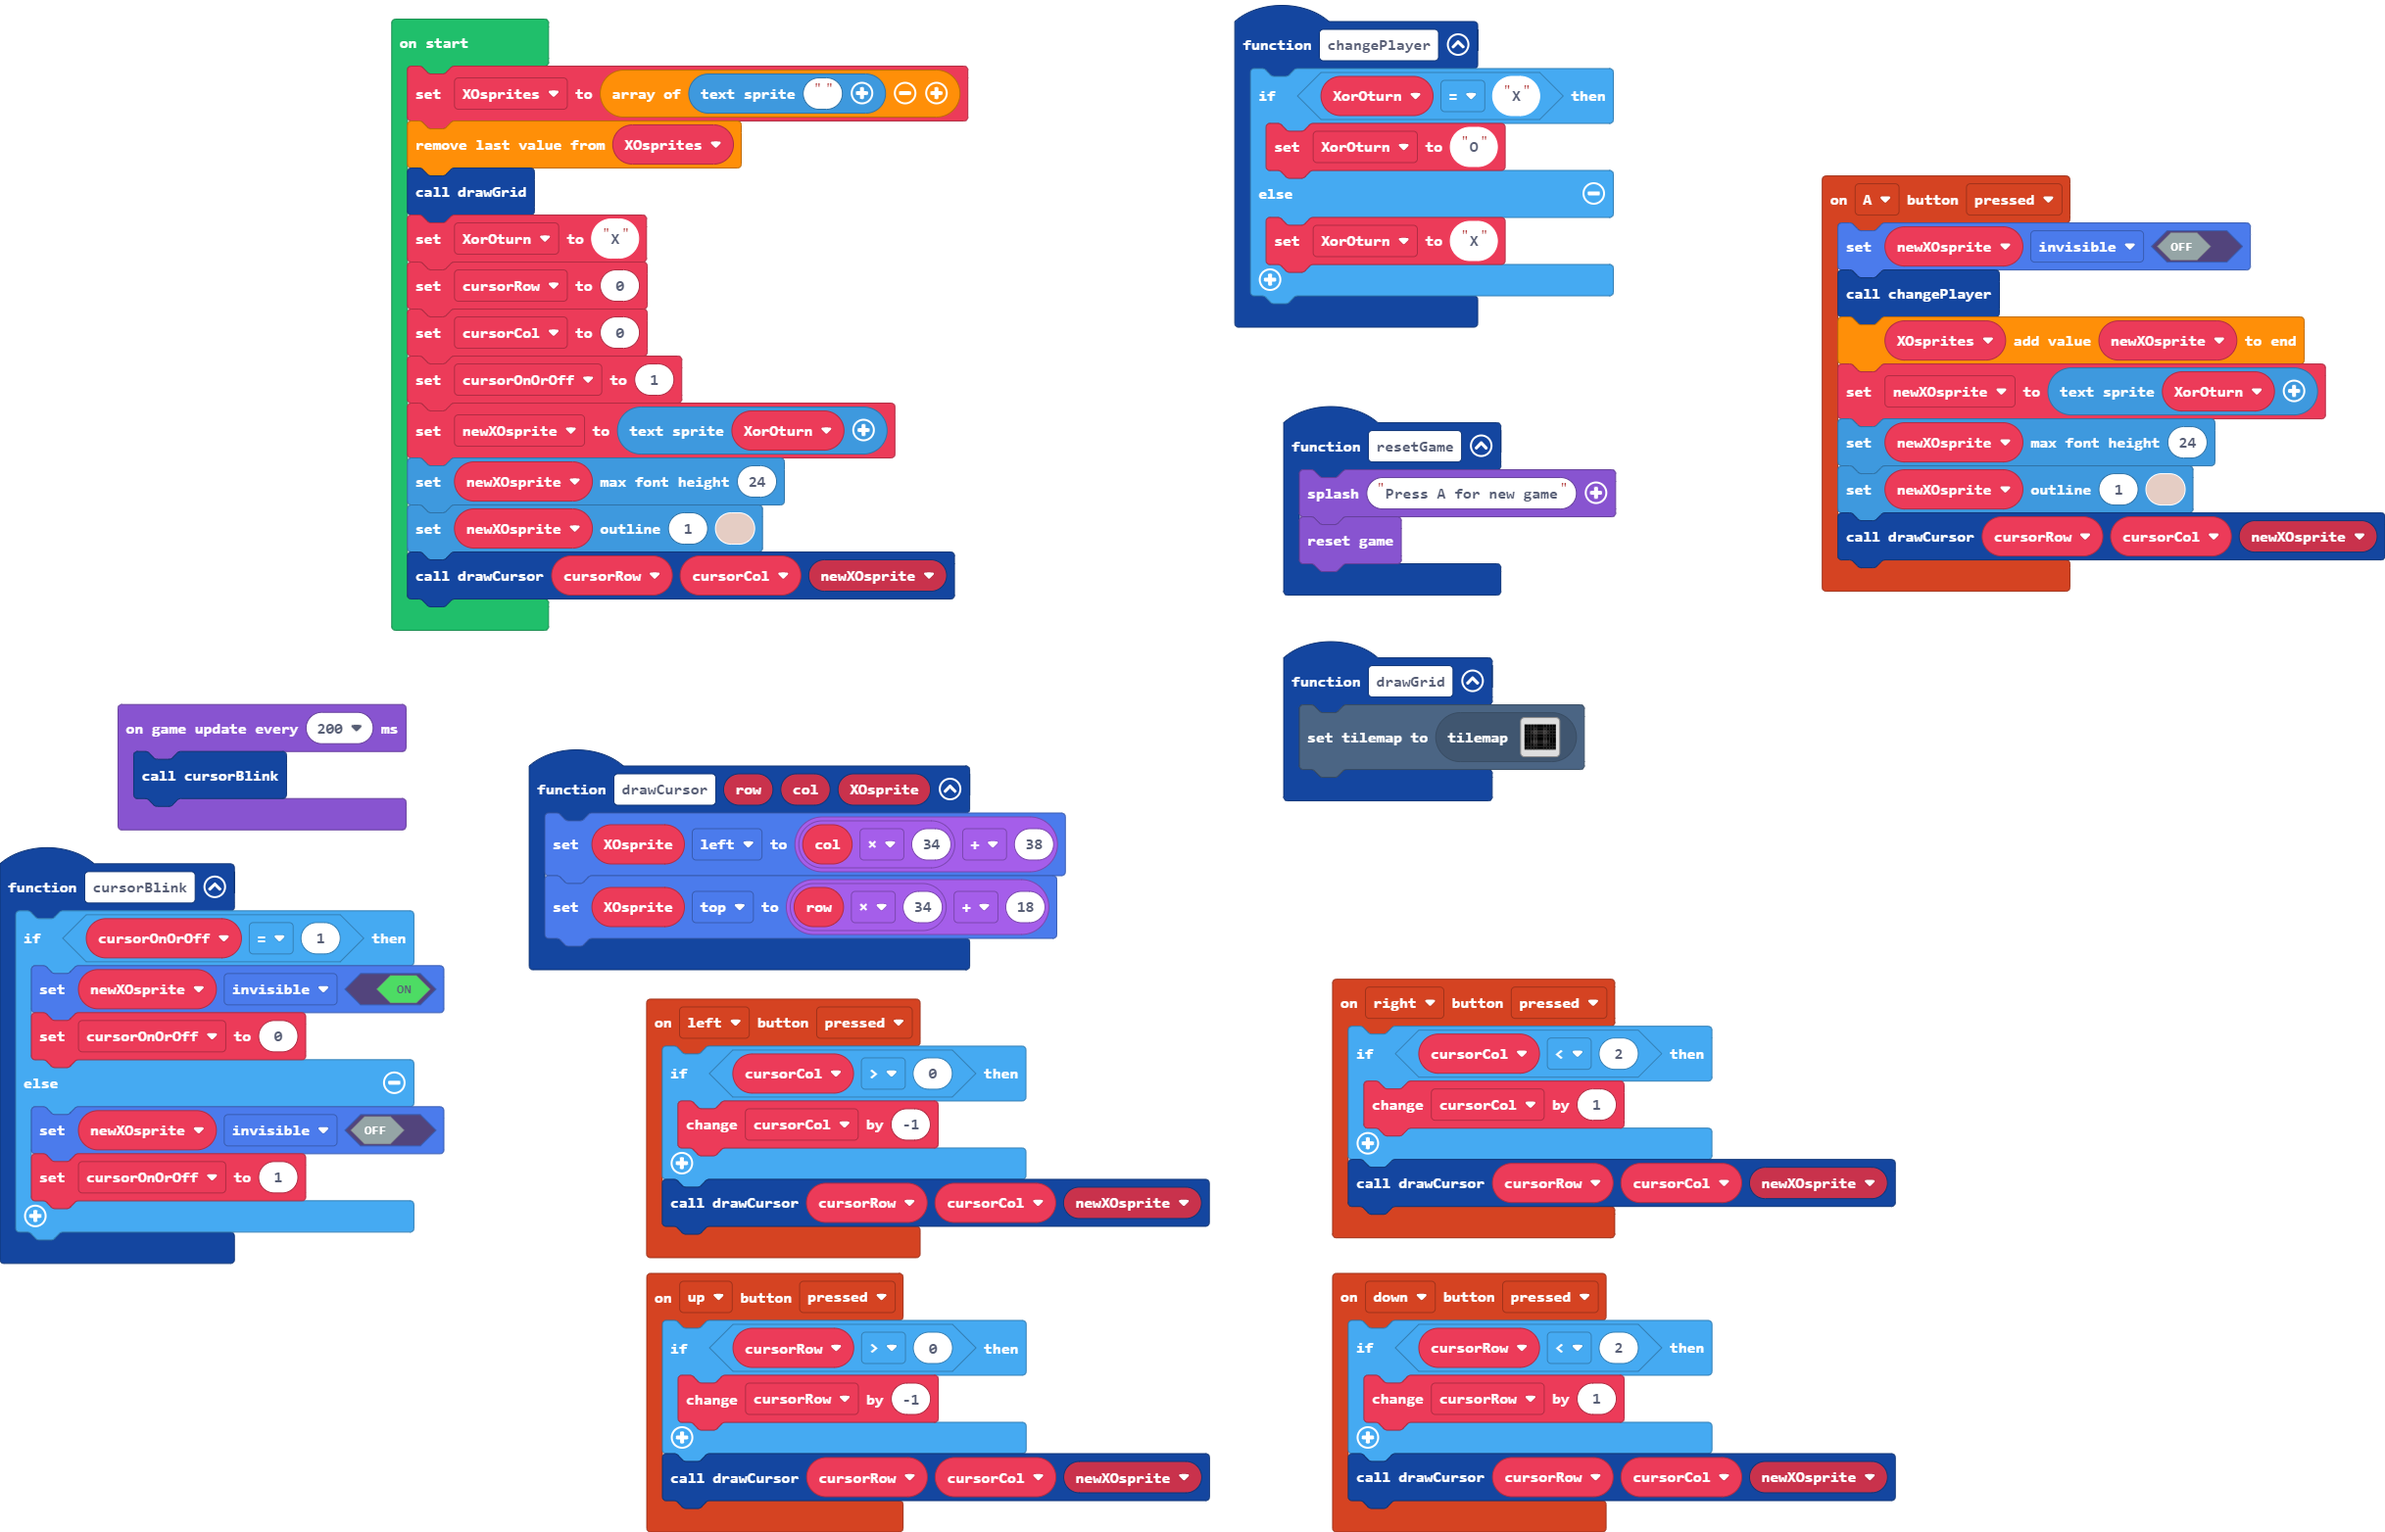
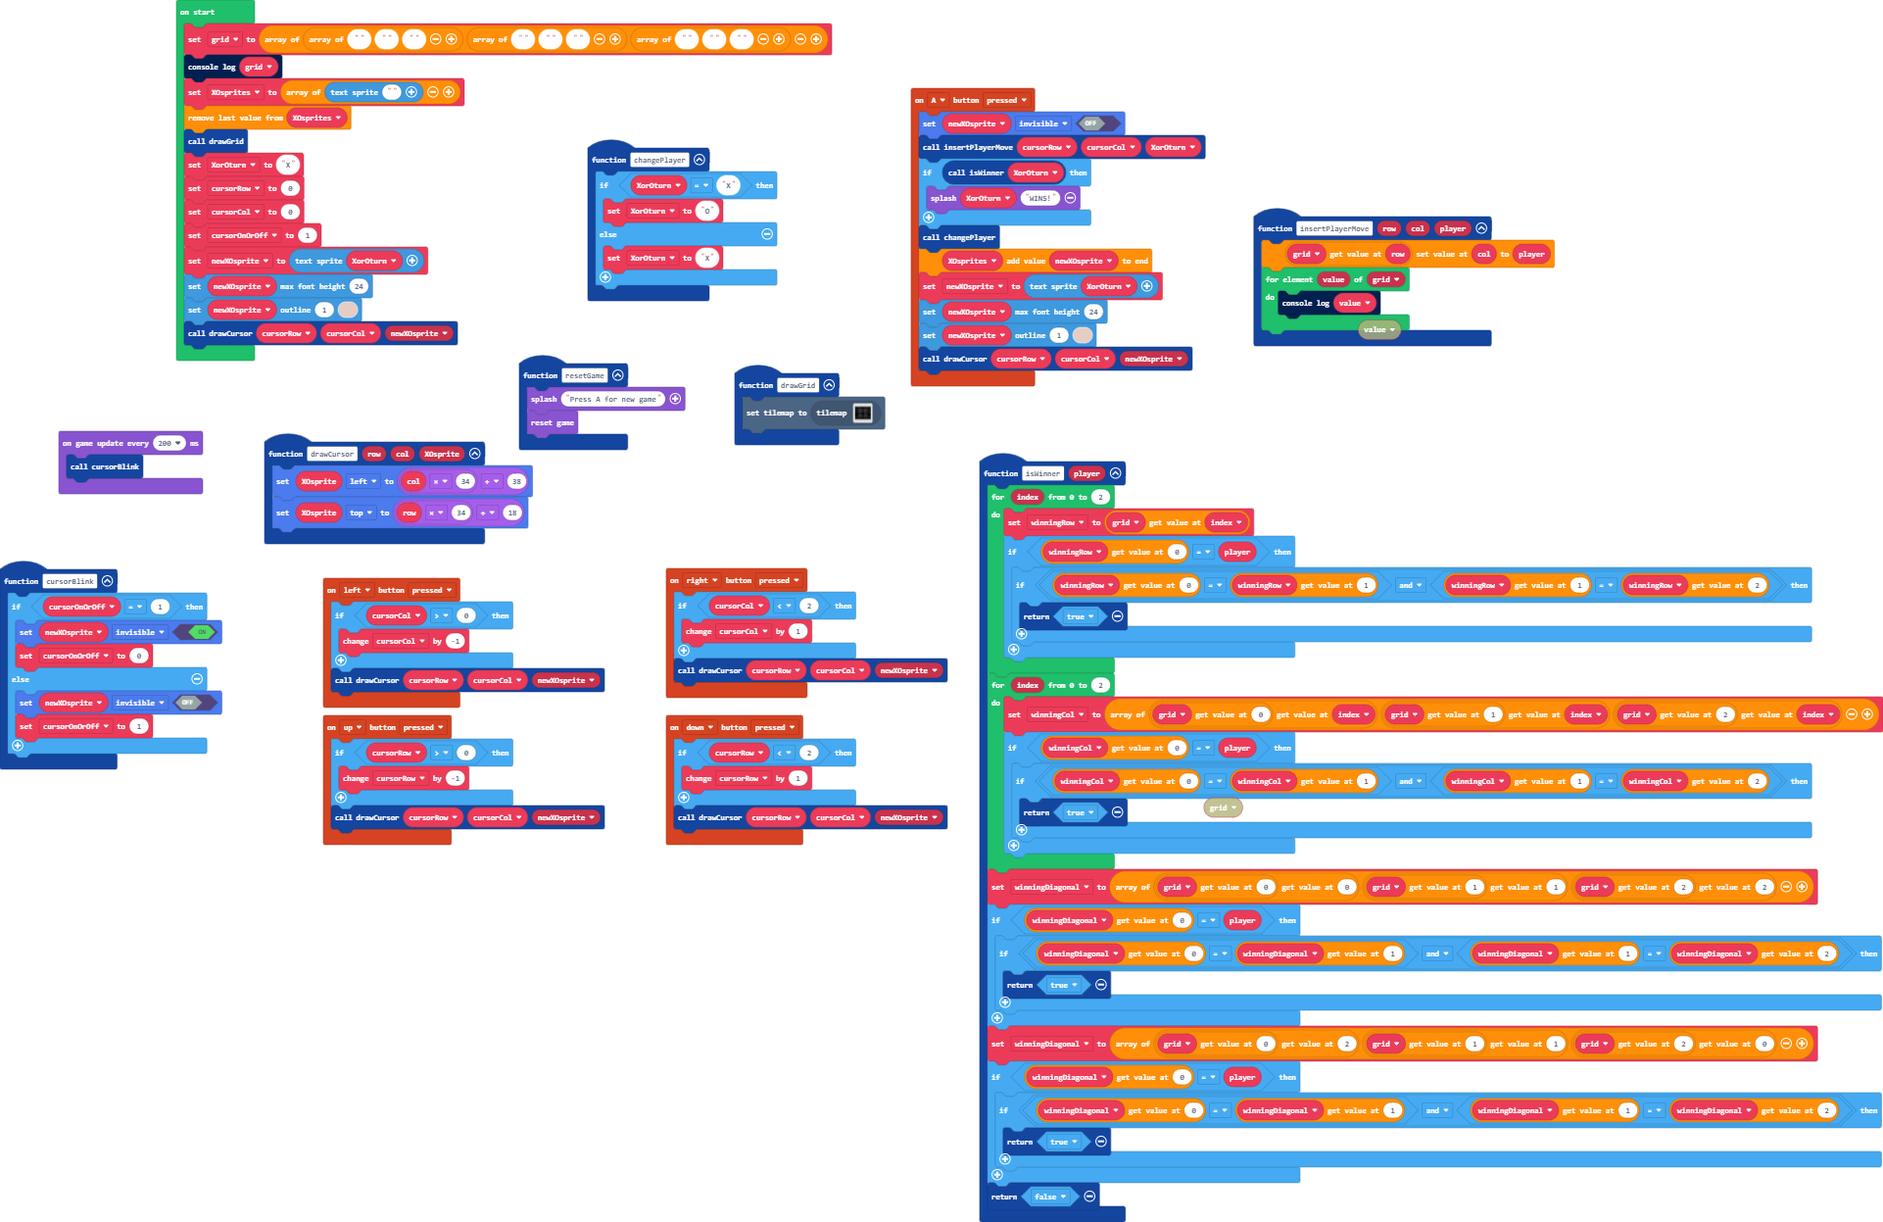
saved

diff --git a/main.ts b/main.ts
@@ -14,6 +14,10 @@ function resetGame () {
 }
 controller.A.onEvent(ControllerButtonEvent.Pressed, function () {
     newXOsprite.setFlag(SpriteFlag.Invisible, false)
+    insertPlayerMove(cursorRow, cursorCol, XorOturn)
+    if (isWinner(XorOturn)) {
+        game.splash(XorOturn, "WINS!")
+    }
     changePlayer()
     XOsprites.push(newXOsprite)
     newXOsprite = textsprite.create(XorOturn)
@@ -51,6 +55,12 @@ controller.down.onEvent(ControllerButtonEvent.Pressed, function () {
     }
     drawCursor(cursorRow, cursorCol, newXOsprite)
 })
+function insertPlayerMove (row: number, col: number, player2: string) {
+    grid[row][col] = player2
+    for (let value of grid) {
+        console.log(value)
+    }
+}
 function changePlayer () {
     if (XorOturn == "X") {
         XorOturn = "O"
@@ -58,12 +68,49 @@ function changePlayer () {
         XorOturn = "X"
     }
 }
+function isWinner (player2: string) {
+    for (let index = 0; index <= 2; index++) {
+        winningRow = grid[index]
+        if (winningRow[0] == player2) {
+            if (winningRow[0] == winningRow[1] && winningRow[1] == winningRow[2]) {
+                return true
+            }
+        }
+    }
+    for (let index = 0; index <= 2; index++) {
+        winningCol = [grid[0][index], grid[1][index], grid[2][index]]
+        if (winningCol[0] == player2) {
+            if (winningCol[0] == winningCol[1] && winningCol[1] == winningCol[2]) {
+                return true
+            }
+        }
+    }
+    winningDiagonal = [grid[0][0], grid[1][1], grid[2][2]]
+    if (winningDiagonal[0] == player2) {
+        if (winningDiagonal[0] == winningDiagonal[1] && winningDiagonal[1] == winningDiagonal[2]) {
+            return true
+        }
+    }
+    winningDiagonal = [grid[0][2], grid[1][1], grid[2][0]]
+    if (winningDiagonal[0] == player2) {
+        if (winningDiagonal[0] == winningDiagonal[1] && winningDiagonal[1] == winningDiagonal[2]) {
+            return true
+        }
+    }
+    return false
+}
+let winningDiagonal: string[] = []
+let winningCol: string[] = []
+let winningRow: string[] = []
 let newXOsprite: TextSprite = null
 let cursorOnOrOff = 0
 let cursorCol = 0
 let cursorRow = 0
 let XorOturn = ""
 let XOsprites: TextSprite[] = []
+let grid: string[][] = []
+grid = [["", "", ""], ["", "", ""], ["", "", ""]]
+console.log(grid)
 XOsprites = [textsprite.create("")]
 XOsprites.pop()
 drawGrid()
